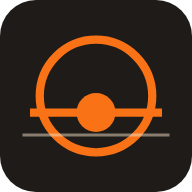
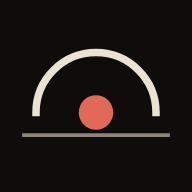
v0.2.0: redesign, flat paper and ink palette, no glow, no flashing (#3)
* v0.2.0 redesign: navy and gold, no flashing, hero card, sparkline, block cubes

Claude-Session: https://claude.ai/code/session_013VMwR7LvqghpFT8Sn46fYv

* Palette from the owner's reference: near-black, red, orange, soft grey

Claude-Session: https://claude.ai/code/session_013VMwR7LvqghpFT8Sn46fYv

* Flat editorial palette (paper, ink, brick red, brass), serif numbers, no glow or shadows

Claude-Session: https://claude.ai/code/session_013VMwR7LvqghpFT8Sn46fYv

* Numbers back to monospace

Claude-Session: https://claude.ai/code/session_013VMwR7LvqghpFT8Sn46fYv

---------

diff --git a/style.css b/style.css
@@ -1,60 +1,63 @@
-:root{--cream:#F0DFC6;--orange:#F97316;--ink:#1F1B18;--bg:#1F1B18;--panel:#29231f;--text:#F0DFC6;--dim:#a99a85;--line:#4a3d33;--glow:0 0 14px rgba(249,115,22,.55);--accent:#F97316;--ok:#7bd88f;--bad:#ff6b5a}
-:root[data-theme=light]{--bg:#F0DFC6;--panel:#f7ebd9;--text:#1F1B18;--dim:#6b5b4a;--line:#d4bf9f;--glow:none;--accent:#c2570c}
-*{box-sizing:border-box}html{-webkit-text-size-adjust:100%}
-body{margin:0;background:var(--bg);color:var(--text);font:15px/1.45 system-ui,-apple-system,"Segoe UI",Roboto,sans-serif;min-height:100vh;padding:env(safe-area-inset-top) env(safe-area-inset-right) env(safe-area-inset-bottom) env(safe-area-inset-left);
-background-image:linear-gradient(var(--line) 1px,transparent 1px),linear-gradient(90deg,var(--line) 1px,transparent 1px);background-size:48px 48px;background-position:-1px -1px;background-attachment:fixed}
-body::before{content:"";position:fixed;inset:0;background:radial-gradient(ellipse at 50% 0,transparent,var(--bg) 75%);pointer-events:none;z-index:0}
-.skip{position:absolute;left:-999px}.skip:focus{left:8px;top:8px;background:var(--orange);color:var(--ink);padding:6px 10px;z-index:99}
-a{color:var(--accent)}button{font:inherit;color:inherit;background:transparent;border:1px solid var(--line);border-radius:6px;padding:6px 10px;cursor:pointer}
-button:hover,button:focus-visible{border-color:var(--accent);box-shadow:var(--glow)}
-:focus-visible{outline:2px solid var(--accent);outline-offset:2px}
-.bar{position:sticky;top:0;z-index:5;display:flex;flex-wrap:wrap;align-items:center;gap:8px 14px;padding:10px 16px;background:color-mix(in srgb,var(--bg) 88%,transparent);backdrop-filter:blur(6px);border-bottom:1px solid var(--line)}
-.brand{display:flex;align-items:center;gap:8px;text-decoration:none;color:var(--accent);font:700 15px ui-monospace,Menlo,Consolas,monospace;letter-spacing:.14em;text-shadow:var(--glow)}
-nav{display:flex;flex-wrap:wrap;gap:2px 4px;flex:1}nav a{color:var(--dim);text-decoration:none;padding:4px 8px;border-radius:4px;font-size:13px}nav a[aria-current=page],nav a:hover{color:var(--text);background:var(--panel)}
-.tools{display:flex;gap:6px;align-items:center}.conn{width:9px;height:9px;border-radius:50%;background:var(--bad)}.conn.on{background:var(--ok);box-shadow:0 0 8px var(--ok)}.conn.poll{background:var(--accent)}
-main{position:relative;z-index:1;max-width:1180px;margin:0 auto;padding:16px;outline:0}
-.foot{position:relative;z-index:1;text-align:center;color:var(--dim);font-size:12px;padding:18px 16px 28px}
-.hero{text-align:center;padding:18px 0 8px}
-.mono{font-family:ui-monospace,SFMono-Regular,Menlo,Consolas,monospace}
-.height{font:700 clamp(44px,13vw,120px)/1 ui-monospace,Menlo,Consolas,monospace;color:var(--accent);text-shadow:var(--glow);letter-spacing:-.02em;margin:4px 0;font-variant-numeric:tabular-nums}
-.height.pulse{animation:flash 1.4s ease-out}
-.ripple{position:absolute;left:50%;top:70px;width:10px;height:10px;margin:-5px;border-radius:50%;border:2px solid var(--accent);animation:rip 1.8s ease-out forwards;pointer-events:none}
-.since{color:var(--dim)}.since b{color:var(--text);font-variant-numeric:tabular-nums}
-.grid{display:grid;grid-template-columns:repeat(auto-fit,minmax(min(100%,300px),1fr));gap:12px;margin-top:14px}
-.panel{background:color-mix(in srgb,var(--panel) 92%,transparent);border:1px solid var(--line);border-radius:10px;padding:14px;position:relative;min-width:0}
-.panel::before,.panel::after{content:"";position:absolute;width:10px;height:10px;border:2px solid var(--accent);opacity:.8}
-.panel::before{left:-1px;top:-1px;border-right:0;border-bottom:0;border-top-left-radius:10px}.panel::after{right:-1px;bottom:-1px;border-left:0;border-top:0;border-bottom-right-radius:10px}
-.panel h2{margin:0 0 8px;font:600 12px ui-monospace,Menlo,monospace;letter-spacing:.16em;text-transform:uppercase;color:var(--dim)}
-.big{font:700 28px/1.1 ui-monospace,Menlo,monospace;color:var(--accent);font-variant-numeric:tabular-nums;overflow-wrap:anywhere}
-.kv{display:grid;grid-template-columns:1fr auto;gap:3px 12px;margin:8px 0 0;font-size:14px}.kv dt{color:var(--dim)}.kv dd{margin:0;text-align:right;font-variant-numeric:tabular-nums;overflow-wrap:anywhere}
-.bar-track{height:8px;background:var(--line);border-radius:4px;overflow:hidden;margin:8px 0}.bar-fill{height:100%;background:var(--accent);box-shadow:var(--glow);width:0;transition:width .6s}
-.arc{display:block;margin:0 auto;max-width:210px;width:100%}.arc text{fill:var(--text);font:700 22px ui-monospace,monospace;text-anchor:middle}.arc .sub{font-size:10px;fill:var(--dim);font-weight:400}
-.arc .trk{stroke:var(--line);fill:none;stroke-width:10;stroke-linecap:round}.arc .val{stroke:var(--accent);fill:none;stroke-width:10;stroke-linecap:round;filter:drop-shadow(0 0 5px var(--accent));transition:stroke-dashoffset .6s}
-.fees{display:grid;grid-template-columns:repeat(4,1fr);gap:6px;text-align:center}.fees div{border:1px solid var(--line);border-radius:6px;padding:6px 2px}.fees b{display:block;font:700 20px ui-monospace,monospace;color:var(--accent)}.fees small{color:var(--dim);font-size:11px}
-.fees.rtl{direction:rtl}
-.blocks{display:flex;gap:8px;overflow-x:auto;padding:4px 2px 10px;scroll-snap-type:x proximity}
-.blk{flex:0 0 112px;scroll-snap-align:start;border:1px solid var(--line);border-radius:8px;padding:8px;background:var(--panel);text-decoration:none;color:var(--text);font-size:12px}.blk b{display:block;color:var(--accent);font:700 15px ui-monospace,monospace}.blk span{color:var(--dim);display:block}
-.blk.proj{border-style:dashed}.blk.cur{border-color:var(--accent);box-shadow:var(--glow)}
-form.row,.row{display:flex;flex-wrap:wrap;gap:8px;align-items:center;margin:8px 0}
-input,select{font:inherit;background:var(--bg);color:var(--text);border:1px solid var(--line);border-radius:6px;padding:7px 9px;min-width:0;max-width:100%}
-.btn-go{background:var(--accent);color:var(--ink);border-color:var(--accent);font-weight:700}
-h1{font:700 20px ui-monospace,monospace;letter-spacing:.1em;color:var(--accent);margin:6px 0 12px}
+:root{--bg:#0E0D0C;--bg2:#0E0D0C;--card:#1C1A17;--card2:#1C1A17;--line:#3A3631;--line2:#262320;--text:#EAE3D2;--dim:#8C857A;--accent:#E06A55;--accent-soft:rgba(224,106,85,.12);--blue:#3987E5;--ok:#6FB38F;--warn:#D9A441;--bad:#E06A55;--shadow:none;--radius:6px;--serif:"Iowan Old Style","Palatino Linotype",Palatino,Georgia,serif}
+:root[data-theme=light]{--bg:#EAE3D2;--bg2:#EAE3D2;--card:#F3EEE2;--card2:#F3EEE2;--line:#C9C0AD;--line2:#DBD3C2;--text:#16130F;--dim:#5D574E;--accent:#8E2A1F;--accent-soft:rgba(142,42,31,.1);--blue:#2A78D6;--ok:#2F6B4F;--warn:#8A5F10;--bad:#8E2A1F;--shadow:none}
+*{box-sizing:border-box}html{-webkit-text-size-adjust:100%;scroll-behavior:smooth}
+body{margin:0;background:var(--bg);color:var(--text);font:15px/1.5 system-ui,-apple-system,"Segoe UI",Roboto,Helvetica,Arial,sans-serif;min-height:100vh;padding:env(safe-area-inset-top) env(safe-area-inset-right) env(safe-area-inset-bottom) env(safe-area-inset-left)}
+.skip{position:absolute;left:-999px}.skip:focus{left:8px;top:8px;background:var(--accent);color:var(--bg);padding:6px 10px;z-index:99;border-radius:6px}
+a{color:var(--accent);text-underline-offset:3px}
+button{font:inherit;color:inherit;background:var(--card);border:1px solid var(--line);border-radius:4px;padding:7px 12px;cursor:pointer;transition:border-color .2s,background .2s}
+button:hover{border-color:var(--accent)}button:focus-visible,a:focus-visible,input:focus-visible,select:focus-visible{outline:2px solid var(--accent);outline-offset:2px}
+.bar{position:sticky;top:0;z-index:5;display:flex;flex-wrap:wrap;align-items:center;gap:6px 18px;padding:10px 20px;background:var(--bg);border-bottom:1px solid var(--line)}
+.brand{display:flex;align-items:center;gap:9px;text-decoration:none;color:var(--text);font:700 14px system-ui,sans-serif;letter-spacing:.22em}.brand svg{color:var(--accent)}
+nav{display:flex;flex-wrap:wrap;gap:2px;flex:1}nav a{color:var(--dim);text-decoration:none;padding:6px 11px;border-radius:2px;font-size:13.5px;transition:color .2s,background .2s}
+nav a:hover{color:var(--text)}nav a[aria-current=page]{color:var(--accent);background:var(--accent-soft)}
+.tools{display:flex;gap:8px;align-items:center}.conn{width:8px;height:8px;border-radius:50%;background:var(--bad)}.conn.on{background:var(--ok)}.conn.poll{background:var(--accent)}
+main{max-width:1180px;margin:0 auto;padding:22px 20px 8px;outline:0}
+.foot{text-align:center;color:var(--dim);font-size:12.5px;padding:22px 16px 34px}
+.mono,.num{font-family:ui-monospace,SFMono-Regular,Menlo,Consolas,monospace;font-variant-numeric:tabular-nums}
+.eyebrow{font-size:11.5px;letter-spacing:.2em;text-transform:uppercase;color:var(--dim);font-weight:600}
+.card,.panel{background:var(--card);border:1px solid var(--line);border-radius:var(--radius);min-width:0}
+.hero{padding:28px 24px 20px;text-align:center;position:relative;overflow:hidden}
+.height{position:relative;font:700 clamp(46px,12.5vw,112px)/1.02 ui-monospace,SFMono-Regular,Menlo,Consolas,monospace;letter-spacing:-.03em;margin:8px 0 4px;color:var(--accent);font-variant-numeric:tabular-nums}
+.since{position:relative;color:var(--dim)}.since b{color:var(--text);font-weight:600}
+.strip{position:relative;display:grid;grid-template-columns:repeat(auto-fit,minmax(130px,1fr));gap:10px;margin-top:22px;text-align:left}
+.chip{background:var(--bg);border:1px solid var(--line);border-radius:4px;padding:10px 12px}
+.chip small{display:block;font-size:11px;letter-spacing:.14em;text-transform:uppercase;color:var(--dim)}.chip b{font:600 18px ui-monospace,SFMono-Regular,Menlo,Consolas,monospace;font-variant-numeric:tabular-nums}
+.hbar{position:relative;margin-top:20px;text-align:left}.hbar .lab{display:flex;justify-content:space-between;font-size:12.5px;color:var(--dim);margin-bottom:6px}
+.track{height:8px;background:var(--line);border-radius:2px;overflow:hidden}.fill{height:100%;background:var(--accent);border-radius:2px;transition:width .8s ease}
+.grid{display:grid;grid-template-columns:repeat(auto-fit,minmax(min(100%,310px),1fr));gap:14px;margin-top:14px}
+.panel{padding:18px;position:relative;border-top:2px solid var(--text)}
+.panel h2{margin:0 0 10px;font-size:11.5px;letter-spacing:.2em;text-transform:uppercase;color:var(--dim);font-weight:600}
+.big{font:700 28px/1.15 ui-monospace,SFMono-Regular,Menlo,Consolas,monospace;color:var(--text);font-variant-numeric:tabular-nums;overflow-wrap:anywhere}a.big{color:var(--accent);text-decoration:none}
+.big small{font-size:14px;color:var(--dim);font-weight:500}
+.kv{display:grid;grid-template-columns:1fr auto;gap:6px 14px;margin:12px 0 0;font-size:14px}.kv dt{color:var(--dim)}.kv dd{margin:0;text-align:right;font-variant-numeric:tabular-nums;overflow-wrap:anywhere}
+.bar-track{height:8px;background:var(--line);border-radius:2px;overflow:hidden;margin:12px 0 4px}.bar-fill{height:100%;background:var(--accent);border-radius:2px;transition:width .8s ease}
+.arc{display:block;margin:2px auto 6px;max-width:220px;width:100%}.arc text{fill:var(--text);font:700 24px ui-monospace,SFMono-Regular,Menlo,Consolas,monospace;text-anchor:middle}.arc .sub{font:500 10.5px system-ui;fill:var(--dim)}
+.arc .trk{stroke:var(--line);fill:none;stroke-width:11;stroke-linecap:round}.arc .val{stroke:var(--accent);fill:none;stroke-width:11;stroke-linecap:round;transition:stroke-dashoffset .8s ease}
+.spark{width:100%;height:64px;display:block;margin:8px 0 0}.spark path.l{fill:none;stroke:var(--accent);stroke-width:2;stroke-linejoin:round}.spark path.a{fill:url(#g);stroke:none}
+.fees{display:grid;grid-template-columns:repeat(4,1fr);gap:8px;text-align:center}.fees div{background:var(--bg);border:1px solid var(--line);border-radius:4px;padding:10px 4px}
+.fees b{display:block;font:700 21px ui-monospace,SFMono-Regular,Menlo,Consolas,monospace;color:var(--accent)}.fees small{color:var(--dim);font-size:11.5px}.fees.rtl{direction:rtl}
+.sec{margin:26px 0 8px;font-size:11.5px;letter-spacing:.2em;text-transform:uppercase;color:var(--dim);font-weight:600}
+.blocks{display:flex;gap:10px;overflow-x:auto;padding:4px 2px 12px;scroll-snap-type:x proximity}
+.blk{flex:0 0 118px;scroll-snap-align:start;border:1px solid var(--line);border-radius:6px;padding:10px;background:var(--card);text-decoration:none;color:var(--text);font-size:12px;transition:border-color .2s,transform .2s}
+.blk:hover{border-color:var(--accent);transform:translateY(-2px)}.blk b{display:block;font:700 15px ui-monospace,SFMono-Regular,Menlo,Consolas,monospace;color:var(--text);margin-top:8px}.blk span{color:var(--dim);display:block;white-space:nowrap;overflow:hidden;text-overflow:ellipsis}
+.blk.cur{border-color:var(--accent)}.blk.cur b{color:var(--accent)}.blk.proj{border-style:dashed}
+.cube{height:54px;border-radius:3px;background:var(--line);position:relative;overflow:hidden;display:flex;align-items:flex-end}.cube i{display:block;width:100%;background:var(--accent)}
+.blk.proj .cube i{background:var(--blue)}
+form.row,.row{display:flex;flex-wrap:wrap;gap:10px;align-items:center;margin:10px 0}
+input,select{font:inherit;background:var(--bg);color:var(--text);border:1px solid var(--line);border-radius:4px;padding:9px 11px;min-width:0;max-width:100%}
+.btn-go{background:var(--accent);color:#FFFFFF;border-color:var(--accent);font-weight:700}.btn-go:hover{filter:brightness(1.08)}
+h1{font:600 26px var(--serif);letter-spacing:.02em;color:var(--text);margin:4px 0 14px}
 .dim{color:var(--dim)}.ok{color:var(--ok)}.bad{color:var(--bad)}
-.glossary dt{font-weight:700;color:var(--accent);margin-top:12px}.glossary dd{margin:2px 0 0;color:var(--text)}
-table{border-collapse:collapse;width:100%;font-size:14px}th,td{padding:6px 8px;border-bottom:1px solid var(--line);text-align:left}th{color:var(--dim);font-weight:600}
-.modal{position:fixed;inset:0;z-index:20;background:rgba(0,0,0,.6);display:flex;align-items:flex-start;justify-content:center;padding:6vh 12px;overflow:auto}.modal[hidden]{display:none}
-.sheet{position:relative;background:var(--bg);border:1px solid var(--accent);border-radius:12px;padding:18px;width:min(560px,100%);box-shadow:var(--glow)}
-.x{position:absolute;right:8px;top:8px;border:0}
-.toast{position:fixed;left:50%;bottom:22px;transform:translateX(-50%);background:var(--accent);color:var(--ink);padding:10px 16px;border-radius:8px;font-weight:700;z-index:30;max-width:92vw}.toast[hidden]{display:none}
-label.chk{display:flex;gap:8px;align-items:center;margin:6px 0}
-.tabs{display:flex;gap:4px;margin-bottom:10px}.tabs button[aria-selected=true]{border-color:var(--accent);color:var(--accent)}
-.stage{height:160px;border:1px solid var(--line);border-radius:8px;position:relative;overflow:hidden;margin:10px 0}
-svg.chart{width:100%;height:120px;display:block}svg.chart path{fill:none;stroke:var(--accent);stroke-width:2}
-@keyframes flash{0%{text-shadow:0 0 60px var(--orange),0 0 20px var(--orange);color:var(--cream)}100%{}}
-@keyframes rip{to{width:420px;height:420px;margin:-210px;opacity:0}}
-@keyframes pulse{50%{box-shadow:0 0 18px var(--accent)}}
-.panel.alive{animation:pulse 3s ease-in-out infinite}
-.nopulse .panel.alive,.reduced .panel.alive{animation:none}.reduced *,.reduced *::before{animation:none!important;transition:none!important}
-@media (prefers-reduced-motion:reduce){*,*::before{animation:none!important;transition:none!important}}
-@media (max-width:420px){main{padding:12px}.fees{grid-template-columns:repeat(2,1fr)}nav a{padding:4px 6px}}
+.glossary dt{font-weight:700;color:var(--accent);margin-top:14px}.glossary dd{margin:3px 0 0}
+table{border-collapse:collapse;width:100%;font-size:14px}th,td{padding:9px 8px;border-bottom:1px solid var(--line2);text-align:left}th{color:var(--dim);font-weight:600}
+.modal{position:fixed;inset:0;z-index:20;background:rgba(6,7,7,.7);display:flex;align-items:flex-start;justify-content:center;padding:7vh 12px;overflow:auto}.modal[hidden]{display:none}
+.sheet{position:relative;background:var(--card);border:1px solid var(--line);border-radius:8px;padding:22px;width:min(580px,100%);box-shadow:var(--shadow)}
+.x{position:absolute;right:10px;top:10px;border:0;background:transparent}
+.toast{box-shadow:none;position:fixed;left:50%;bottom:24px;transform:translateX(-50%);background:var(--accent);color:#FFFFFF;padding:11px 18px;border-radius:12px;font-weight:700;z-index:30;max-width:92vw}.toast[hidden]{display:none}
+label.chk{display:flex;gap:10px;align-items:center;margin:8px 0}
+.tabs{display:flex;gap:6px;margin-bottom:12px}.tabs button[aria-selected=true]{border-color:var(--accent);color:var(--accent);background:var(--accent-soft)}
+.reduced *,.reduced *::before{transition:none!important;scroll-behavior:auto!important}
+@media (prefers-reduced-motion:reduce){*,*::before{transition:none!important;scroll-behavior:auto!important}}
+@media (max-width:640px){nav{order:3;flex:0 0 100%;flex-wrap:nowrap;overflow-x:auto;scrollbar-width:none}nav a{white-space:nowrap}.tools{margin-left:auto}}
+@media (max-width:480px){main{padding:16px 14px 6px}.bar{padding:8px 12px}.hero{padding:22px 14px 16px}.fees{grid-template-columns:repeat(2,1fr)}nav a{padding:5px 8px}}
 :fullscreen body{overflow:auto}

diff --git a/src/app.js b/src/app.js
@@ -4,7 +4,7 @@ import { t, setLang, detectLang, LANGS } from './i18n.js';
 import { play, BLOCK_SOUNDS, ALARM_SOUNDS } from './sound.js';
 import { GLOSSARY, ANNIVERSARIES } from './content.js';
 
-export const VERSION = '0.1.0';
+export const VERSION = '0.2.0';
 const $ = (s, r = document) => r.querySelector(s);
 const CURRENCIES = ['USD', 'EUR', 'GBP', 'CAD', 'CHF', 'AUD', 'JPY'];
 const DEF = { theme: 'dark', lang: detectLang(), cur: 'USD', h12: false, dateFmt: 'iso', utc: false, showFees: true, feesRtl: false, showPool: true, showMoscow: true, showCap: true,
@@ -27,7 +27,7 @@ function applyLook() {
   document.documentElement.dataset.theme = dark ? 'dark' : 'light';
   document.documentElement.lang = S.lang; setLang(S.lang);
   document.body.classList.toggle('reduced', S.reduced); document.body.classList.toggle('nopulse', !S.pulse);
-  const m = $('meta[name=theme-color]'); if (m) m.content = dark ? '#1F1B18' : '#F0DFC6';
+  const m = $('meta[name=theme-color]'); if (m) m.content = dark ? '#0E0D0C' : '#EAE3D2';
 }
 const price = () => (st.prices && st.prices[S.cur]) || NaN;
 const NAVS = [['/', 'dash'], ['/alarm', 'alarm'], ['/calc', 'calc'], ['/replay', 'replay'], ['/events', 'events'], ['/glossary', 'glossary'], ['/about', 'about']];
@@ -67,14 +67,10 @@ function checkAlarms() {
   if (!hit.length) return; store('alarms', rest);
   for (const x of hit) { toast(`⏰ Block ${L.fmtNum(x.height)} reached${x.label ? ': ' + x.label : ''}`); play(x.sound || S.asound); }
 }
-function animateNew() {
-  const h = $('.height'); if (!h) return;
-  if (!S.reduced) { h.classList.remove('pulse'); void h.offsetWidth; h.classList.add('pulse'); }
-  if (S.ripple && !S.reduced) { const r = el('div', { class: 'ripple' }); h.parentElement.append(r); setTimeout(() => r.remove(), 2000); }
-}
+function animateNew() { /* no flashing: the number simply updates */ }
 
 // ---------- views ----------
-const panel = (title, ...kids) => el('section', { class: 'panel alive' }, el('h2', null, title), ...kids);
+const panel = (title, ...kids) => el('section', { class: 'panel' }, el('h2', null, title), ...kids);
 const kv = (rows) => el('dl', { class: 'kv' }, rows.flatMap(([k, v]) => [el('dt', null, k), el('dd', null, v)]));
 const bar = (p) => el('div', { class: 'bar-track' }, el('div', { class: 'bar-fill', style: `width:${Math.max(0, Math.min(1, p)) * 100}%` }));
 function arc(p, big, sub) {
@@ -84,11 +80,27 @@ function arc(p, big, sub) {
   s.innerHTML = `<path class="trk" d="M20 90 A70 70 0 0 1 160 90"/><path class="val" d="M20 90 A70 70 0 0 1 160 90" stroke-dasharray="${c}" stroke-dashoffset="${off}"/><text x="90" y="82"></text><text class="sub" x="90" y="100"></text>`;
   s.querySelectorAll('text')[0].textContent = big; s.querySelectorAll('text')[1].textContent = sub; return s;
 }
+function spark(vals) {
+  const v = vals.filter(Number.isFinite); if (v.length < 2) return el('div');
+  const lo = Math.min(...v), hi = Math.max(...v), w = 300, h = 64, pad = 4, rng = hi - lo || 1;
+  const pts = v.map((y, i) => [i / (v.length - 1) * w, h - pad - (y - lo) / rng * (h - 2 * pad)]);
+  const d = pts.map((p, i) => (i ? 'L' : 'M') + p[0].toFixed(1) + ' ' + p[1].toFixed(1)).join('');
+  const ns = 'http://www.w3.org/2000/svg', s = document.createElementNS(ns, 'svg');
+  s.setAttribute('viewBox', `0 0 ${w} ${h}`); s.setAttribute('preserveAspectRatio', 'none'); s.setAttribute('class', 'spark'); s.setAttribute('aria-hidden', 'true');
+  s.innerHTML = `<defs><linearGradient id="g" x1="0" y1="0" x2="0" y2="1"><stop offset="0" stop-color="currentColor" stop-opacity=".28"/><stop offset="1" stop-color="currentColor" stop-opacity="0"/></linearGradient></defs><path class="a" d="${d}L${w} ${h}L0 ${h}Z" style="color:var(--accent)"/><path class="l" d="${d}" vector-effect="non-scaling-stroke"/>`;
+  return s;
+}
+const cube = (p) => el('div', { class: 'cube' }, el('i', { style: `height:${Math.max(4, Math.min(100, p * 100)).toFixed(0)}%` }));
 function viewDash() {
   const h = st.tip, now = Date.now(), root = el('div');
   const since = st.blocks[0] ? now / 1000 - st.blocks[0].timestamp : NaN;
-  root.append(el('div', { class: 'hero' }, el('div', { class: 'dim mono' }, t('height').toUpperCase()), el('div', { class: 'height', id: 'h' }, L.fmtNum(h)),
-    el('div', { class: 'since' }, t('since') + ': ', el('b', { id: 'since' }, Number.isFinite(since) ? L.fmtDuration(since) : '–'))));
+  const pr0 = price(), hv0 = Number.isFinite(h) ? L.halvingInfo(h, now) : null;
+  const chips = [[t('price'), Number.isFinite(pr0) ? L.fmtNum(pr0) + ' ' + S.cur : '–'], ['Sats per ' + S.cur, Number.isFinite(pr0) ? L.fmtNum(L.satsPerUnit(pr0)) : '–'],
+    ['Fast fee', st.fees ? L.fmtFee(st.fees.fastestFee) + ' sat/vB' : '–'], ['Mempool', st.mem ? L.fmtNum(st.mem.count) + ' tx' : '–']];
+  root.append(el('section', { class: 'hero card' }, el('div', { class: 'eyebrow' }, t('height')), el('div', { class: 'height', id: 'h' }, L.fmtNum(h)),
+    el('div', { class: 'since' }, t('since') + ': ', el('b', { id: 'since' }, Number.isFinite(since) ? L.fmtDuration(since) : '–')),
+    el('div', { class: 'strip' }, chips.map(([k, v]) => el('div', { class: 'chip' }, el('small', null, k), el('b', null, v)))),
+    hv0 ? el('div', { class: 'hbar' }, el('div', { class: 'lab' }, el('span', null, `${t('halving')} · ${L.fmtNum(hv0.blocksToGo)} ${t('blocksToGo')}`), el('span', { class: 'num' }, (hv0.progress * 100).toFixed(1) + '%')), el('div', { class: 'track' }, el('div', { class: 'fill', style: `width:${(hv0.progress * 100).toFixed(2)}%` }))) : null));
   const g = el('div', { class: 'grid' }); root.append(g);
   if (Number.isFinite(h)) {
     const hv = L.halvingInfo(h, now);
@@ -97,14 +109,14 @@ function viewDash() {
         ['Reward now', L.satsToBtc(hv.subsidy, 4) + ' BTC'], ['Then', L.satsToBtc(hv.nextSubsidy, 5) + ' BTC']])));
     const sp = L.supplyAt(h);
     g.append(panel(t('supply'), el('div', { class: 'big' }, L.fmtNum(sp / 1e8, 2) + ' BTC'), bar(sp / L.MAX_SATS),
-      kv([['Issued', (sp / L.MAX_SATS * 100).toFixed(3) + '%'], ['Remaining', L.satsToBtc(L.MAX_SATS - sp, 4) + ' BTC'], ['Cap', '21,000,000 BTC']])));
+      kv([['Issued', (sp / L.MAX_SATS * 100).toFixed(3) + '%'], ['Remaining', L.fmtNum((L.MAX_SATS - sp) / 1e8, 2) + ' BTC'], ['Cap', '21,000,000 BTC']])));
   }
   if (st.diff) { const d = L.parseDifficulty(st.diff);
     g.append(panel(t('difficulty'), arc(d.progress, (d.progress * 100).toFixed(1) + '%', `${L.fmtNum(d.blocksLeft)} blocks`),
       kv([['Expected change', (d.change >= 0 ? '+' : '') + d.change.toFixed(2) + '%'], ['Est. date', fmtD(d.estMs)], ['Retarget block', L.fmtNum(d.nextHeight)],
         ['Previous change', (d.prevChange >= 0 ? '+' : '') + d.prevChange.toFixed(2) + '%']]))); }
   if (st.hr) { const a = L.hashrateAverages(st.hr.hashrates, st.hr.currentHashrate), sel = S.hr || 'd14';
-    g.append(panel(t('hashrate'), el('div', { class: 'big' }, L.fmtHashrate(a.current)),
+    g.append(panel(t('hashrate'), el('div', { class: 'big' }, L.fmtHashrate(a.current)), spark((st.hr.hashrates || []).map((x) => x.avgHashrate)),
       kv([['7 days', L.fmtHashrate(a.d7)], ['14 days', L.fmtHashrate(a.d14)], ['30 days', L.fmtHashrate(a.d30)], ['90 days', L.fmtHashrate(a.d90)], ['Difficulty', L.fmtDifficulty(st.hr.currentDifficulty)]]),
       el('div', { class: 'dim' }, `Selected average (${sel}): ${L.fmtHashrate(a[sel])}`))); }
   if (st.blocks.length > 1) { const b = L.blockTimeStats(st.blocks, now / 1000);
@@ -127,10 +139,10 @@ function viewDash() {
     g.append(panel(t('price'), el('div', { class: 'big' }, L.fmtNum(L.satsPerUnit(p)) + ' ' + S.satsSym), el('div', { class: 'dim' }, `per 1 ${S.cur}`), kv(rows))); }
   if (st.ln && st.ln.channel_count) g.append(panel(t('lightning'), el('div', { class: 'big' }, L.satsToBtc(st.ln.total_capacity, 2) + ' BTC'), el('div', { class: 'dim' }, 'public channel capacity'),
     kv([['Channels', L.fmtNum(st.ln.channel_count)], ['Nodes', L.fmtNum(st.ln.node_count)]])));
-  if (S.showFees && st.proj && st.proj.length) root.append(el('h2', { class: 'dim mono', style: 'margin:20px 0 0;font-size:12px;letter-spacing:.16em' }, t('projected').toUpperCase()),
-    el('div', { class: 'blocks' }, st.proj.slice(0, 8).map((b, i) => el('div', { class: 'blk proj' }, el('b', null, `~${L.fmtFee(b.medianFee)} sat/vB`), el('span', null, L.fmtNum(b.nTx) + ' tx'), el('span', null, `in ~${(i + 1) * 10} min`)))));
-  if (st.blocks.length) root.append(el('h2', { class: 'dim mono', style: 'margin:14px 0 0;font-size:12px;letter-spacing:.16em' }, t('recent').toUpperCase()),
-    el('div', { class: 'blocks' }, st.blocks.slice(0, 12).map((x, i) => { const b = L.parseBlock(x); return el('a', { class: 'blk' + (i === 0 ? ' cur' : ''), href: '#/block/' + b.height }, el('b', null, L.fmtNum(b.height)), el('span', null, L.fmtNum(b.txs) + ' tx'), el('span', null, L.fmtAgo(now / 1000 - b.ts) + ' ago'), S.showPool ? el('span', null, b.pool) : null); })));
+  if (S.showFees && st.proj && st.proj.length) root.append(el('h2', { class: 'sec' }, t('projected')),
+    el('div', { class: 'blocks' }, st.proj.slice(0, 8).map((b, i) => el('div', { class: 'blk proj' }, cube((b.blockVSize || 0) / 1e6), el('b', null, `~${L.fmtFee(b.medianFee)} sat/vB`), el('span', null, L.fmtNum(b.nTx) + ' tx'), el('span', null, `in ~${(i + 1) * 10} min`)))));
+  if (st.blocks.length) root.append(el('h2', { class: 'sec' }, t('recent')),
+    el('div', { class: 'blocks' }, st.blocks.slice(0, 12).map((x, i) => { const b = L.parseBlock(x); return el('a', { class: 'blk' + (i === 0 ? ' cur' : ''), href: '#/block/' + b.height }, cube((x.weight || 0) / 4e6), el('b', null, L.fmtNum(b.height)), el('span', null, L.fmtNum(b.txs) + ' tx'), el('span', null, L.fmtAgo(now / 1000 - b.ts) + ' ago'), S.showPool ? el('span', null, b.pool) : null); })));
   if (!Number.isFinite(h)) root.append(el('p', { class: 'dim' }, 'Loading…'));
   return root;
 }
@@ -256,7 +268,7 @@ function settingsModal() {
       el('button', { onclick: () => { document.fullscreenElement ? document.exitFullscreen() : document.documentElement.requestFullscreen && document.documentElement.requestFullscreen().catch(() => {}); } }, 'Full screen')),
     format: () => el('div', null, row(t('language'), sel('lang', Object.entries(LANGS))), row('Time', sel('h12', [[false, '24-hour'], [true, '12-hour']])), row('Date', sel('dateFmt', [['iso', '2026-11-24'], ['dmy', '24.11.2026'], ['mdy', '11/24/2026']])), row('Zone', sel('utc', [[false, 'Local'], [true, 'UTC']]))),
     sounds: () => el('div', null, chk('sound', 'Sound on new block'), row('Block sound', sel('bsound', Object.entries(BLOCK_SOUNDS))), el('button', { onclick: () => play(S.bsound) }, '▶ Test'),
-      row('Animations', el('span')), chk('ripple', 'Full ripple on new block'), chk('pulse', 'Panel pulse'), chk('reduced', 'Reduced motion')) };
+      chk('reduced', 'Reduce motion (no transitions)')) };
   const body = el('div'), bar2 = el('div', { class: 'tabs', role: 'tablist' });
   const show = (k) => { bar2.querySelectorAll('button').forEach((b) => b.setAttribute('aria-selected', String(b.dataset.k === k))); body.replaceChildren(tabs[k]()); };
   for (const k of Object.keys(tabs)) bar2.append(el('button', { role: 'tab', 'data-k': k, onclick: () => show(k) }, k[0].toUpperCase() + k.slice(1)));

diff --git a/index.html b/index.html
@@ -5,7 +5,7 @@
 <meta name="viewport" content="width=device-width, initial-scale=1, viewport-fit=cover">
 <title>BLOCKHORIZON</title>
 <meta name="description" content="Live Bitcoin dashboard where block height is the clock. No accounts, no tracking.">
-<meta name="theme-color" content="#1F1B18">
+<meta name="theme-color" content="#0E0D0C">
 <meta http-equiv="Content-Security-Policy" content="default-src 'self'; script-src 'self'; style-src 'self'; style-src-attr 'unsafe-inline'; img-src 'self' data:; connect-src 'self' https://mempool.space wss://mempool.space; manifest-src 'self'; base-uri 'none'; form-action 'none'">
 <link rel="manifest" href="manifest.webmanifest">
 <link rel="icon" href="icons/icon.svg" type="image/svg+xml">

diff --git a/sw.js b/sw.js
@@ -1,5 +1,5 @@
 // Offline shell: app files are cached; live API calls always go to the network (the app keeps its own last-value cache).
-const CACHE = 'blockhorizon-v0.1.0';
+const CACHE = 'blockhorizon-v0.2.0';
 const FILES = ['./', 'index.html', 'style.css', 'privacy.html', 'manifest.webmanifest', 'icons/icon.svg', 'icons/icon-192.png', 'icons/icon-512.png',
   'src/app.js', 'src/api.js', 'src/lib.js', 'src/i18n.js', 'src/sound.js', 'src/content.js'];
 self.addEventListener('install', (e) => { e.waitUntil(caches.open(CACHE).then((c) => c.addAll(FILES)).then(() => self.skipWaiting())); });
